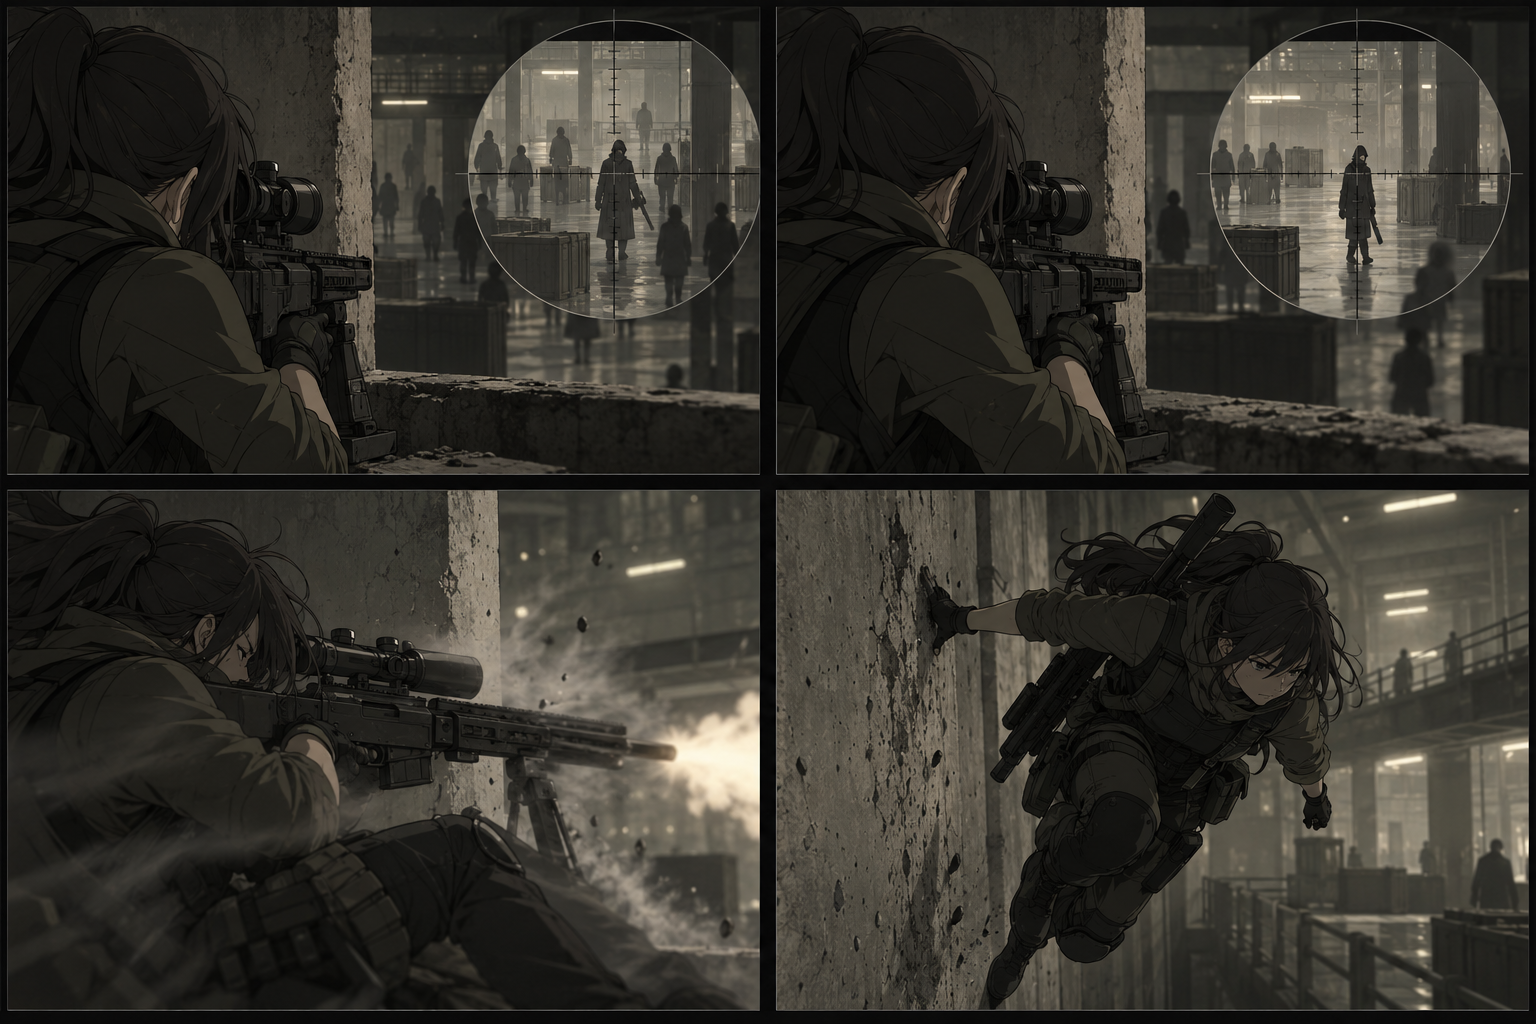
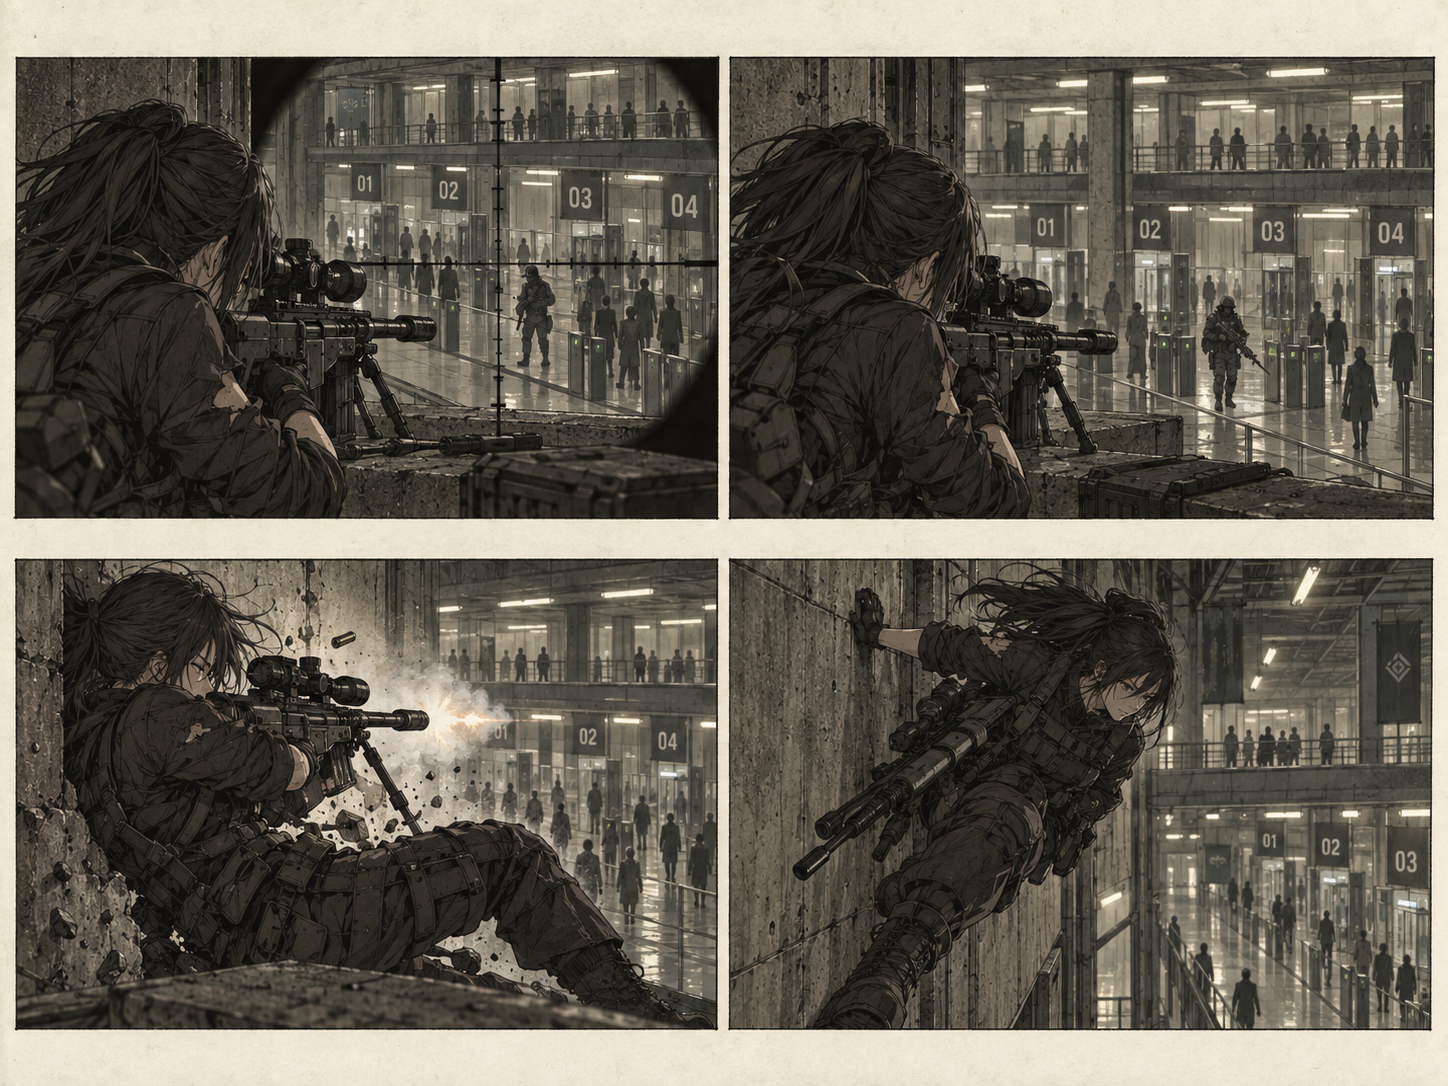
📝(imprints): image update

diff --git a/missions/hub0.md b/missions/hub0.md
@@ -12,6 +12,14 @@ act: 1
 
 Provide the crew's directed return point during Act I while Characters and deployment options unlock. HUB0 and HUB1 are campaign states of the same physical Hub rather than separate locations. Recovery Capsules—called “Coffins” by the crew—carry Characters into and out of the Hub by rail.
 
+## First arrival scene
+
+> **TODO — Scene timing and dialogue:** Define the reveal, pause, and opening exchange after the storyboard framing is reviewed.
+
+![HUB0 storyboard concept of ROOK meeting Ghost VECTOR](content/images/missions/storyboard/HUB0%20Rook%20Meets%20VECTOR.png)
+
+Generated previsualization proposal: after ROOK's Coffin docks, he enters the occupied Hub and finds VECTOR waiting in her default Ghost configuration. The scene turns their earlier radio contact into an in-person introduction and presents VECTOR as the contrasting playable Character before M02 selection. Camera direction and exact blocking remain pending review.
+
 ## Progression
 
 - After [[Missions/M01|M01]], ROOK's Coffin returns beside VECTOR's already docked Coffin; two docking stations remain empty.

diff --git a/imprints/vector-hunter.md b/imprints/vector-hunter.md
@@ -27,7 +27,7 @@ Scene staging follows [[Biomes/B06#memory-scene-visual-and-audio-language|B06's 
 
 ### Generated storyboard review
 
-> **TODO — Regeneration:** Preserve the readable waiting and separation beats. Establish the elevated corporate personnel concourse, repeated access gates, and numbered lanes; clarify the displacement from recoil into wall contact. Check Character-reference fidelity before approval.
+> **TODO — Storyboard review:** Confirm Character-reference fidelity and verify that the shot-to-wall contact reads clearly enough for Recoil Routing before approval.
 
 ![VECTOR Hunter generated storyboard draft](content/images/imprints/storyboard/VECTOR%20Hunter.png)
 

diff --git a/imprints/vector-phase.md b/imprints/vector-phase.md
@@ -27,7 +27,7 @@ Scene staging follows [[Biomes/B05#memory-scene-visual-and-audio-language|B05's 
 
 ### Generated storyboard review
 
-> **TODO — Regeneration:** Add B05's root-framed exit, contaminated passage, and damp organic-industrial surfaces. Preserve the strike-then-shift progression; reduce the visible wound detail to match the non-graphic brief. Check Character-reference fidelity before approval.
+> **TODO — Storyboard review:** Confirm Character-reference fidelity and verify that the strike-then-shift progression remains legible at scene timing before approval.
 
 ![VECTOR Phase generated storyboard draft](content/images/imprints/storyboard/VECTOR%20Phase.png)
 
